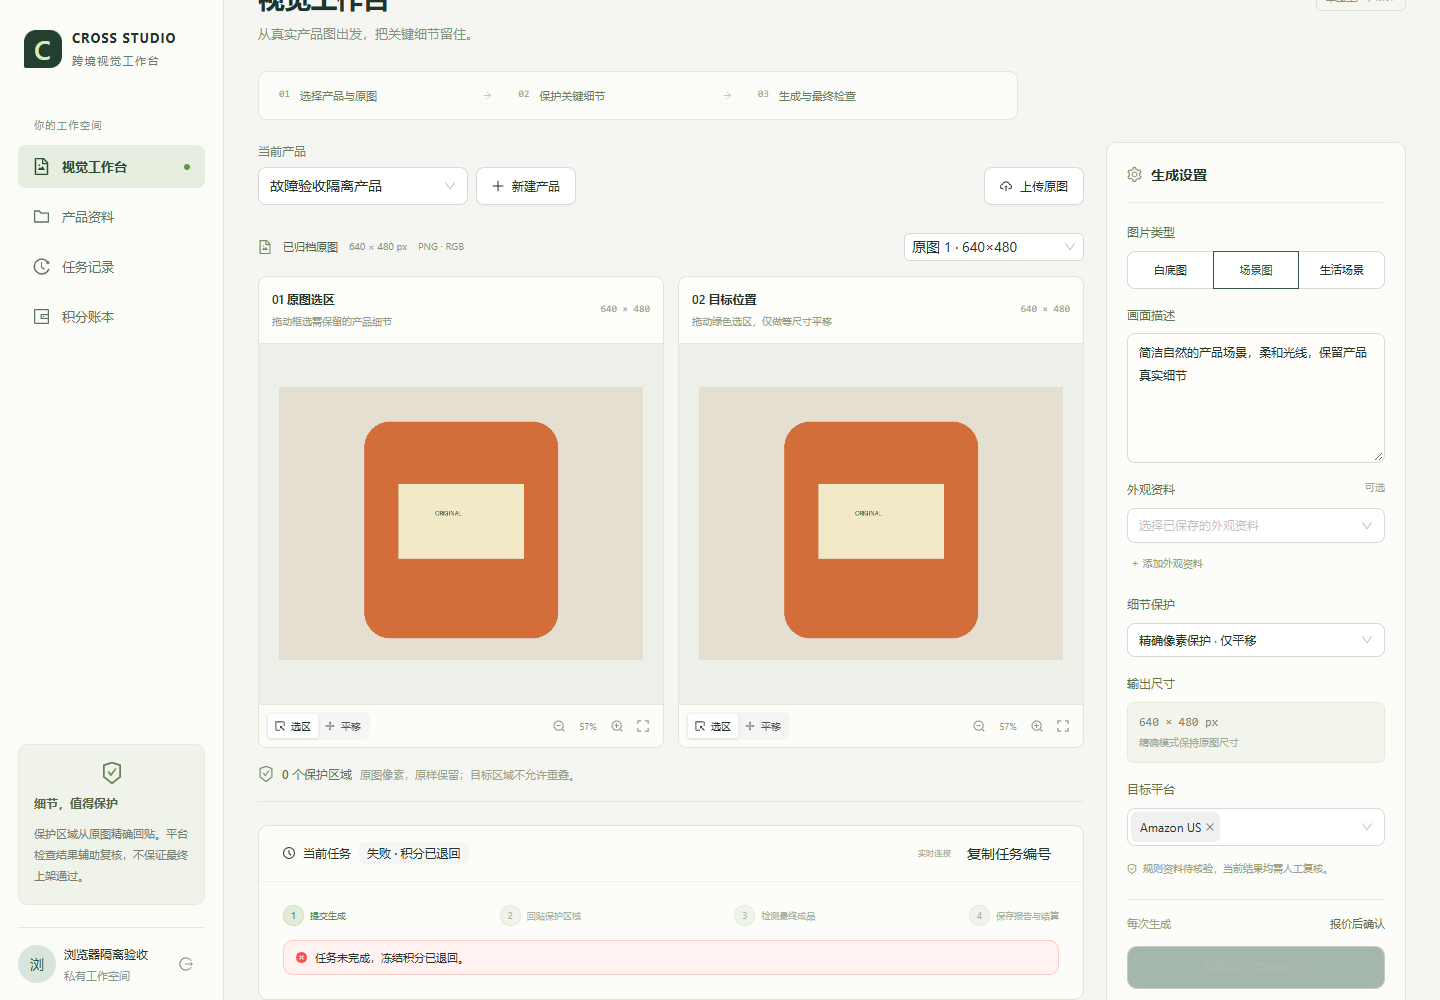
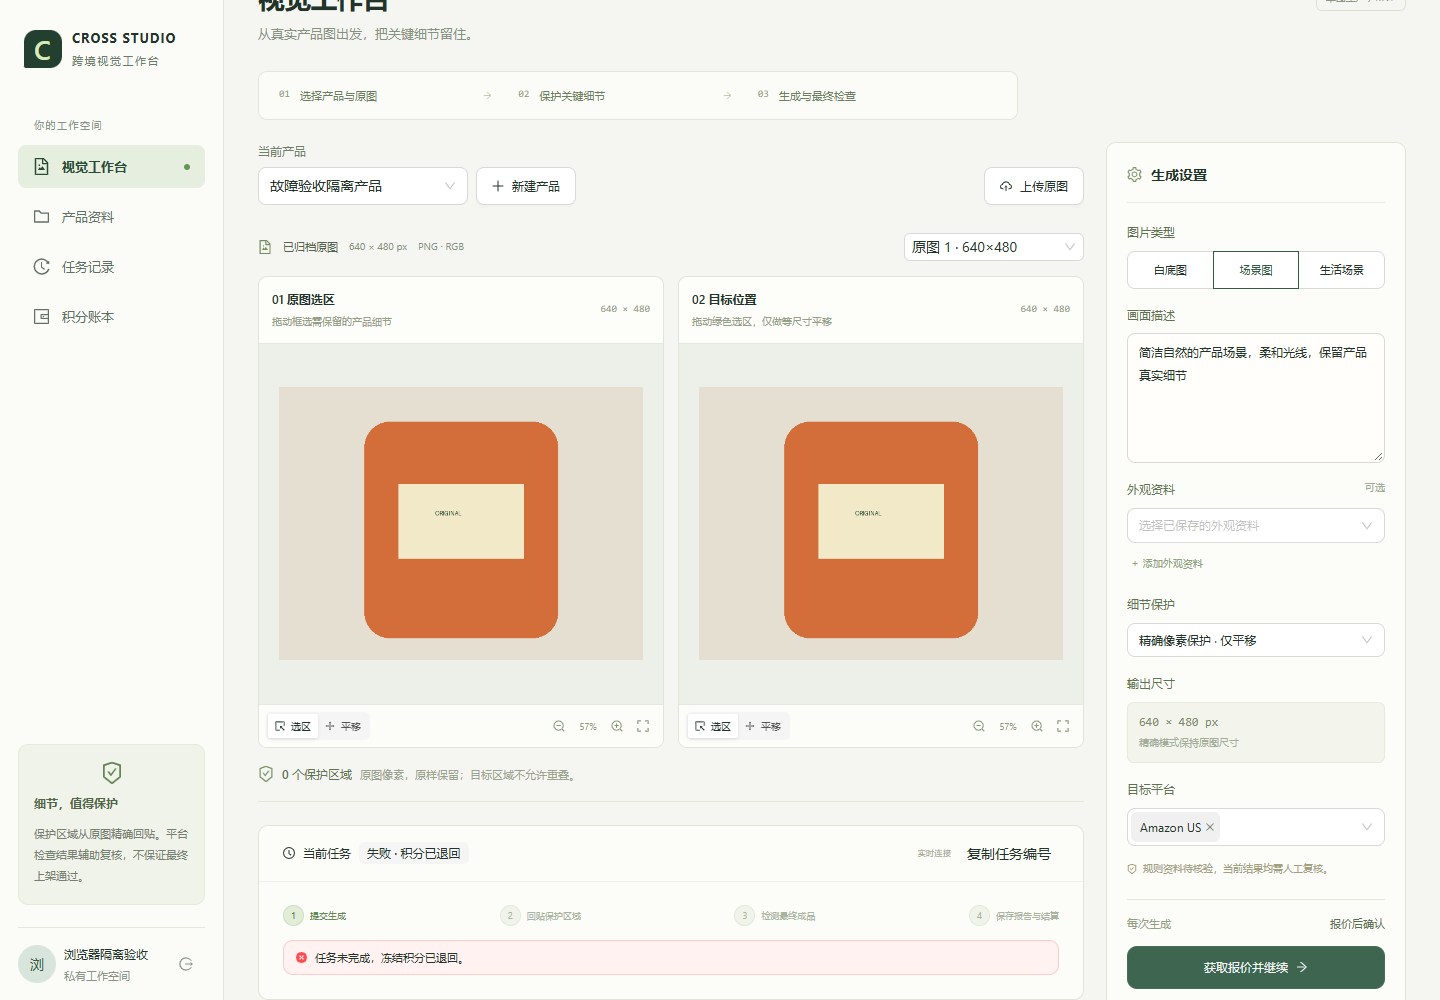
Synchronize lost-response fault injection and scope public signing-key scan exception

Changed region(s): [[0.7812, 0.93, 0.9688, 0.992]]

diff --git a/apps/web/e2e-controlled/faults.spec.ts b/apps/web/e2e-controlled/faults.spec.ts
@@ -72,12 +72,15 @@ test('晚到回执恢复查询和归档，原生成意图不重发',async({page}
 });
 
 test('提交响应丢失后再次确认沿用同一幂等键',async({page})=>{
- await setup(page);let first:any;const keys:string[]=[];let intercepted=0;
+ await setup(page);let first:any;const keys:string[]=[];let intercepted=0;let lossInjected=false;
  await page.route('**/api/v1/tasks',async route=>{
   if(route.request().method()!=='POST'){await route.continue();return}keys.push(route.request().headers()['idempotency-key']);intercepted++;
-  if(intercepted===1){const response=await route.fetch();expect(response.status()).toBe(201);first=await response.json();await route.abort('failed')}else await route.continue();
+  if(intercepted===1){const response=await route.fetch();expect(response.status()).toBe(201);first=await response.json();await route.abort('failed');lossInjected=true}else await route.continue();
  });
- await page.getByRole('button',{name:'获取报价并继续'}).click();const dialog=page.getByRole('dialog',{name:'确认本次生成'});const confirm=dialog.getByRole('button',{name:'确认并创建任务',exact:true});await confirm.click();await expect.poll(()=>intercepted).toBe(1);await expect(confirm).not.toHaveClass(/ant-btn-loading/);
+ await page.getByRole('button',{name:'获取报价并继续'}).click();const dialog=page.getByRole('dialog',{name:'确认本次生成'});const confirm=dialog.getByRole('button',{name:'确认并创建任务',exact:true});await confirm.click();
+ // Interception starts before the real POST commits. Wait for the injected loss,
+ // not just interception, before measuring the UI's recovery from that loss.
+ await expect.poll(()=>lossInjected,{timeout:30000}).toBe(true);expect(first.id).toBeTruthy();expect(intercepted).toBe(1);await expect(confirm).not.toHaveClass(/ant-btn-loading/);
  const replay=page.waitForResponse(r=>r.url().endsWith('/api/v1/tasks')&&r.request().method()==='POST'&&r.status()===200);await confirm.click();const recovered=await(await replay).json();expect(recovered.id).toBe(first.id);expect(keys).toHaveLength(2);expect(keys[0]).toBe(keys[1]);
  expect(worker(recovered.id,'success').result).toBe('succeeded');await expect(page.getByRole('link',{name:'下载 PNG'})).toBeVisible();const rows=await ledger(page,recovered.id);expect(rows.filter((r:any)=>r.type==='freeze')).toHaveLength(1);expect(rows.filter((r:any)=>r.type==='charge')).toHaveLength(1);expect((await(await page.request.get('/api/v1/tasks')).json()).items).toHaveLength(1);
  evidence.push({case:'lost_submit_response',http_replay_status:200,same_idempotency_key:true,unique_tasks:1,one_freeze:true,one_charge:true});

diff --git a/scripts/verify_delivery.py b/scripts/verify_delivery.py
@@ -66,7 +66,7 @@ def verify_static():
     return {'static':'PASS','legal_text_references':legal_files,'dependency_components':len(inventory['components']),'openapi_paths':len(create_app().openapi()['paths'])}
 
 def verify_run(evidence):
-    paths=['src','scripts','tests','migrations','apps/web','.github','.dockerignore','compose.yaml','Dockerfile','pyproject.toml','uv.lock','contracts','ops']
+    paths=['src','scripts','tests','migrations','apps/web','.github','.dockerignore','.gitleaks.toml','compose.yaml','Dockerfile','pyproject.toml','uv.lock','contracts','ops']
     if subprocess.call(['git','diff','--quiet','HEAD','--',*paths],cwd=ROOT) or subprocess.check_output(['git','ls-files','--others','--exclude-standard','--',*paths],cwd=ROOT):
         raise EnvironmentError('BLOCKED_ENV: commit implementation changes before validating current-commit build evidence')
     docker=shutil.which('docker')

diff --git a/docs/SUPPLY_CHAIN.md b/docs/SUPPLY_CHAIN.md
@@ -10,6 +10,10 @@
 
 `python scripts/dependency_audit.py --output work/dependency-audit`调用pip-audit及pnpm audit，不自动fix、不忽略具体漏洞；在线源不可用、工具失败、跳过包、缺少可解析结果或已知漏洞均返回失败。摘要绑定两个锁文件SHA，查询结果只表示该时刻已知advisory，不能证明不存在未知漏洞。本机本轮88项Python已安装依赖、npm各级已知漏洞均0；证据dependency-audit-20261113.log。当前生成清单88 Python/100 npm、未缺法律文本，见dependency-artifacts-20261113.log。
 
-CI另以固定digest的Gitleaks8.30.1扫描全部提交历史并redact，首轮实际通过。工作流只读仓库、构建/测试，不上传私有.local、运行凭据、JWT私钥或备份；构建产物与公开证据短期保存，不推镜像、不部署。首轮API探针漏/api/v1导致404，已定位并修正，完整镜像/浏览器CI结果仍需等待后续运行；不提前标P5-01通过。
+CI以固定digest的Gitleaks8.30.1扫描全部提交历史并redact。35694a4完整CI/P5-01已通过，原始报告保留ci-43323370220；后续新增容器运行闭环仍待新CI。工作流只读仓库、构建/测试，不上传私有.local、运行凭据、JWT私钥或备份；构建产物与公开证据短期保存，不推镜像、不部署。
+
+归档原始 docker inspect 后，generic-api-key 将 Python 基础镜像公开 GPG 签名指纹判为一条命中，导致43324941200扫描失败。已依据[官方 Python 镜像 Dockerfile](https://raw.githubusercontent.com/docker-library/python/master/3.13/slim-bookworm/Dockerfile)核对它用于下载 Python 签名公钥，不是私钥或 API 凭据。`.gitleaks.toml`继承全部默认规则，只为归档 docker-images.jsonl 路径 AND 该确切 GPG_KEY 匹配增加目标规则例外；不忽略文件、目录、提交或一般凭据。
+
+使用[官方 Gitleaks8.30.1 Windows 发行包](https://github.com/gitleaks/gitleaks/releases/tag/v8.30.1)，SHA同时核对 release asset digest 和官方checksums，实际扫描34个提交后无其他命中。4项范围实测：确切公钥/正确路径通过，同值其他路径、其他值同路径、其他凭据同路径均被检出。证据gitleaks-public-fingerprint-scope-20261113.json。CI显式指定同配置，并保存redacted JSON报告供失败定位；不会因为扫描失败就把默认规则关闭。
 
 官方依据：[Docker多阶段构建](https://docs.docker.com/get-started/docker-concepts/building-images/multi-stage-builds/)、[GitHub构建产物](https://docs.github.com/en/actions/concepts/workflows-and-actions/workflow-artifacts)、[Gitleaks](https://github.com/gitleaks/gitleaks)、[pip-audit](https://github.com/pypa/pip-audit)、[CycloneDX 1.6](https://cyclonedx.org/docs/1.6/json/)。
